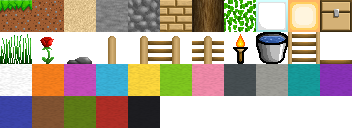
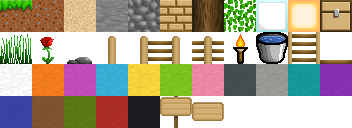
added signs

Changed region(s): [[0.4375, 0.75, 0.6562, 1.0]]

diff --git a/src/block_functions.c b/src/block_functions.c
@@ -106,12 +106,6 @@ bool torch_state_resolver(BlockExtraResult result, BlockExtraResult other, Block
                 return true;
             }
         }
-        else {
-            return false;
-        }
-    }
-    else {
-        return false;
     }
 
     return false;
@@ -149,6 +143,46 @@ bool on_chest_interact(BlockExtraResult result) {
 void on_chest_destroy(BlockExtraResult result) {
     if (result.block->data != NULL) {
         item_container_free(result.block->data);
+        free(result.block->data);
+        result.block->data = NULL;
+    }
+}
+
+bool sign_solver(BlockExtraResult result, BlockExtraResult other, BlockExtraResult neighbors[4], ChunkLayerEnum layer) {
+    bool valid = false;
+
+    BlockRegistry* bottom_brg = neighbors[NEIGHBOR_BOTTOM].reg;
+    if (bottom_brg->flags & BLOCK_FLAG_SOLID && bottom_brg->flags & BLOCK_FLAG_FULL_BLOCK) {
+        result.block->state = 0;
+        valid = true;
+    } else if (layer == CHUNK_LAYER_FOREGROUND) {
+        BlockRegistry* wall_rg = other.reg;
+        if (wall_rg) {
+            if (wall_rg->flags & BLOCK_FLAG_SOLID && wall_rg->flags & BLOCK_FLAG_FULL_BLOCK) {
+                result.block->state = 1;
+                valid = true;
+            }
+        }
+    }
+
+    if (valid && result.block->data == NULL) {
+        result.block->data = calloc(3, sizeof(const char*));
+        if (result.block->data) {
+            const char** strings = result.block->data;
+            strings[0] = "The quick";
+            strings[1] = "brown fox";
+            strings[2] = "jumps over";
+        }
+        else {
+            valid = false;
+        }
+    }
+
+    return valid;
+}
+
+void on_sign_destroy(BlockExtraResult result) {
+    if (result.block->data != NULL) {
         free(result.block->data);
         result.block->data = NULL;
     }
@@ -344,8 +378,32 @@ bool water_flowing_tick(BlockExtraResult result, BlockExtraResult neighbors[4], 
     }
 }
 
-void chest_overlay_draw(void* data, Vector2 position) {
-    if (!data) return;
-    ItemContainer* ic = (ItemContainer*)data;
-    DrawText(ic->name, position.x, position.y, 32.0f, WHITE);
+void sign_text_draw(void* data, Vector2 position, uint8_t state) {
+    if (data != NULL) {
+        const char** strings = data;
+        float textSize = 4.0f;
+        float disloc = state == 1 ? 5.0f : 0.0f;
+        Vector2 textPos = (Vector2){
+            position.x + (TILE_SIZE / 2.0f),
+            position.y + TILE_SIZE / 8.0f + disloc
+        };
+
+        for (int i = 0; i < 3; i++) {
+            const char* str = strings[i];
+            Vector2 textMeasure = MeasureTextEx(GetFontDefault(), str, textSize, textSize / 8.0f);
+
+            DrawTextPro(
+                GetFontDefault(),
+                str,
+                textPos,
+                (Vector2) { textMeasure.x / 2.0f, 0.0f },
+                0.0f,
+                textSize,
+                textSize / 8.0f,
+                BLACK
+            );
+
+            textPos.y += textMeasure.y + 1.0f;
+        }
+    }
 }

diff --git a/include/block_functions.h b/include/block_functions.h
@@ -25,7 +25,7 @@ typedef void (*BlockDestroyCallback)(BlockExtraResult result);
 // unnecessary light and mesh updates.
 typedef bool (*BlockTickCallback)(BlockExtraResult result, BlockExtraResult neighbors[4], ChunkLayerEnum layer);
 // Function that draws anything on the top of a block based on the block's external data.
-typedef void (*BlockOverlayRender)(void* data, Vector2 position);
+typedef void (*BlockOverlayRender)(void* data, Vector2 position, uint8_t state);
 
 uint8_t trapdoor_state_selector(uint8_t idx);
 uint8_t trapdoor_variant_selector(uint8_t state);
@@ -35,16 +35,18 @@ bool plant_block_resolver(BlockExtraResult result, BlockExtraResult other, Block
 bool torch_state_resolver(BlockExtraResult result, BlockExtraResult other, BlockExtraResult neighbors[4], ChunkLayerEnum layer);
 bool fence_resolver(BlockExtraResult result, BlockExtraResult other, BlockExtraResult neighbors[4], ChunkLayerEnum layer);
 bool chest_solver(BlockExtraResult result, BlockExtraResult other, BlockExtraResult neighbors[4], ChunkLayerEnum layer);
+bool sign_solver(BlockExtraResult result, BlockExtraResult other, BlockExtraResult neighbors[4], ChunkLayerEnum layer);
 
 bool on_chest_interact(BlockExtraResult result);
 bool trapdoor_interact(BlockExtraResult result);
 
 void on_chest_destroy(BlockExtraResult result);
+void on_sign_destroy(BlockExtraResult result);
 
 bool falling_block_tick(BlockExtraResult result, BlockExtraResult neighbors[4], ChunkLayerEnum layer);
 bool water_source_tick(BlockExtraResult result, BlockExtraResult neighbors[4], ChunkLayerEnum layer);
 bool water_flowing_tick(BlockExtraResult result, BlockExtraResult neighbors[4], ChunkLayerEnum layer);
 
-void chest_overlay_draw(void* data, Vector2 position);
+void sign_text_draw(void* data, Vector2 position, uint8_t state);
 
 #endif

diff --git a/src/chunk_layer.c b/src/chunk_layer.c
@@ -8,7 +8,7 @@
 #include <raylib.h>
 #include <rlgl.h>
 
-void chunk_layer_init(ChunkLayer* layer, float brightness) {
+void chunk_layer_init(ChunkLayer* layer, uint8_t brightness) {
     if (!layer) return;
 
     for (int i = 0; i < CHUNK_AREA; i++) {
@@ -49,7 +49,7 @@ void chunk_layer_genmesh(ChunkLayer* layer) {
 
     // Now generate the quads for the mesh
 
-    Color c = (Color) { layer->brightness * 255, layer->brightness * 255, layer->brightness * 255, 255 };
+    Color c = (Color) { layer->brightness, layer->brightness, layer->brightness, 255 };
     Color colors[] = { c, c, c, c };
 
     for (int i = 0; i < CHUNK_AREA; i++) {
@@ -88,6 +88,8 @@ void chunk_layer_genmesh(ChunkLayer* layer) {
 void chunk_layer_draw(ChunkLayer* layer) {
     if (!layer) return;
 
+    rlDrawRenderBatchActive();
+
     if (layer->initializedMesh) {
         DrawMesh(layer->mesh, texture_atlas_get_material(), MatrixIdentity());
     }
@@ -100,7 +102,7 @@ void chunk_layer_draw(ChunkLayer* layer) {
             int x = i % CHUNK_WIDTH;
             int y = i / CHUNK_WIDTH;
 
-            rg->overlay_draw(block->data, (Vector2) { x * TILE_SIZE, y * TILE_SIZE });
+            rg->overlay_draw(block->data, (Vector2) { x * TILE_SIZE, y * TILE_SIZE }, block->state);
         }
     }
 }

diff --git a/src/registries/block_registry.c b/src/registries/block_registry.c
@@ -114,8 +114,7 @@ void block_registry_init() {
         .lightLevel = BLOCK_LIGHT_NO_LIGHT,
         .interact_callback = on_chest_interact,
         .state_resolver = chest_solver,
-        .destroy_callback = on_chest_destroy,
-        .overlay_draw = chest_overlay_draw
+        .destroy_callback = on_chest_destroy
     };
 
     blockRegistry[BLOCK_WOOL] = (BlockRegistry){
@@ -288,6 +287,19 @@ void block_registry_init() {
         .state_selector = trapdoor_state_selector,
         .variant_selector = trapdoor_variant_selector,
         .interact_callback = trapdoor_interact
+    };
+
+    blockRegistry[BLOCK_SIGN] = (BlockRegistry){
+        .variant_count = 2,
+        .variants = {
+            {.atlas_idx = 38, .model_idx = BLOCK_MODEL_QUAD, .flipH = false, .flipV = false, .rotation = 0 },
+            {.atlas_idx = 39, .model_idx = BLOCK_MODEL_QUAD, .flipH = false, .flipV = false, .rotation = 0 },
+        },
+        .flags = 0,
+        .lightLevel = BLOCK_LIGHT_NO_LIGHT,
+        .state_resolver = sign_solver,
+        .destroy_callback = on_sign_destroy,
+        .overlay_draw = sign_text_draw
     };
 
     blockRegistry[BLOCK_TORCH] = (BlockRegistry){

diff --git a/src/chunk.c b/src/chunk.c
@@ -48,8 +48,8 @@ void chunk_init(Chunk* chunk)
 
     block_tick_list_clear(&chunk->blockTickList);
 
-    chunk_layer_init(&chunk->layers[CHUNK_LAYER_FOREGROUND], 1.0f);
-    chunk_layer_init(&chunk->layers[CHUNK_LAYER_BACKGROUND], 0.5f);
+    chunk_layer_init(&chunk->layers[CHUNK_LAYER_FOREGROUND], 255);
+    chunk_layer_init(&chunk->layers[CHUNK_LAYER_BACKGROUND], 128);
 
     // The liquid mesh won't change the amount of vertices so it doesn't need to allocate again
     chunk->liquidMesh = (Mesh){ 0 };
@@ -237,7 +237,7 @@ void chunk_genmesh(Chunk* chunk) {
     if (chunk == NULL) return;
 
     for (int i = 0; i < CHUNK_LAYER_COUNT; i++) {
-        chunk_layer_genmesh(&chunk->layers[i]);
+        chunk_layer_genmesh(&chunk->layers[i], chunk->light);
     }
 
     chunk_gen_liquid_mesh(chunk);

diff --git a/include/chunk_layer.h b/include/chunk_layer.h
@@ -13,11 +13,11 @@ typedef struct {
     size_t vertexOffsets[CHUNK_AREA];
     Mesh mesh;
     bool initializedMesh;
-    float brightness;
+    uint8_t brightness;
 } ChunkLayer;
 
-void chunk_layer_init(ChunkLayer* layer, float brightness);
-void chunk_layer_genmesh(ChunkLayer* layer);
+void chunk_layer_init(ChunkLayer* layer, uint8_t brightness);
+void chunk_layer_genmesh(ChunkLayer* layer, uint8_t lightmap[CHUNK_AREA]);
 void chunk_layer_draw(ChunkLayer* layer);
 void chunk_layer_free(ChunkLayer* layer);
 

diff --git a/src/registries/item_registry.c b/src/registries/item_registry.c
@@ -252,6 +252,13 @@ void item_registry_init() {
 		.blockId = BLOCK_TRAPDOOR
 	};
 
+	itemRegistry[ITEM_SIGN] = (ItemRegistry){
+		.name = "Sign",
+		.atlas_idx = 38,
+		.model_idx = BLOCK_MODEL_QUAD,
+		.blockId = BLOCK_SIGN
+	};
+
 	itemRegistry[ITEM_TORCH] = (ItemRegistry){
 		.name = "Torch",
 		.atlas_idx = 18,

diff --git a/include/registries/block_registry.h b/include/registries/block_registry.h
@@ -47,6 +47,7 @@ typedef enum {
 	BLOCK_WOODEN_FENCE,
 	BLOCK_LADDERS,
 	BLOCK_TRAPDOOR,
+	BLOCK_SIGN,
 	BLOCK_TORCH,
 	BLOCK_WATER_SOURCE,
 	BLOCK_WATER_FLOWING,

diff --git a/include/registries/item_registry.h b/include/registries/item_registry.h
@@ -41,6 +41,7 @@ typedef enum {
 	ITEM_WOODEN_FENCE,
 	ITEM_LADDERS,
 	ITEM_TRAPDOOR,
+	ITEM_SIGN,
 	ITEM_TORCH,
 	ITEM_WATER_BUCKET,
 	ITEM_DIRT_SLAB,
